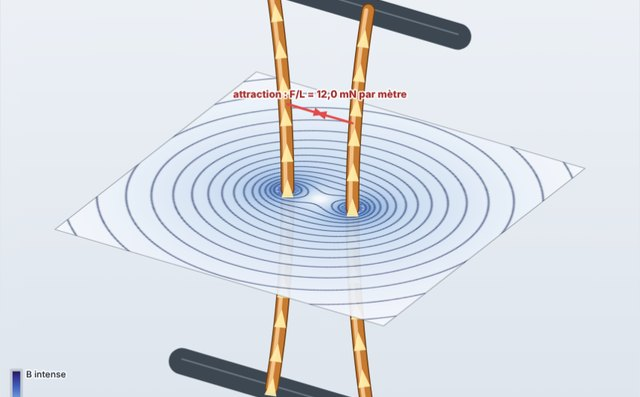
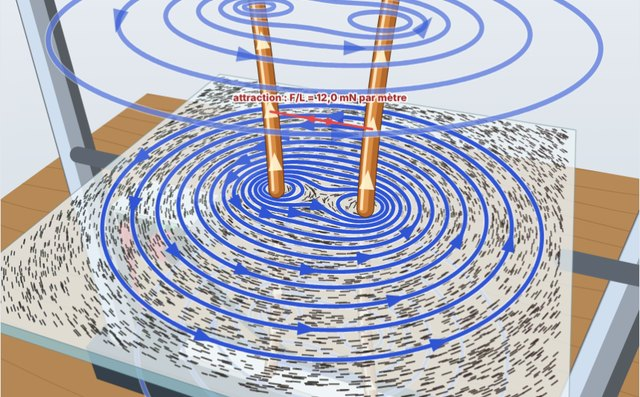
Deux fils parallèles : montage de labo réaliste en perspective, limaille de fer sur plaque de verre, vraies lignes de champ calculées en 3D
Claude-Session: https://claude.ai/code/session_01B7k5RL4vixYyXqa5m252m5

diff --git a/universite/physique/fils-paralleles-3d/index.html b/universite/physique/fils-paralleles-3d/index.html
@@ -154,7 +154,7 @@ new MutationObserver(ms=>ms.forEach(m=>{if(m.target.classList&&m.target.classLis
 <div class="sfa-titlecard"><div class="sfa-chips"><span class="sfa-chip">Physique · Magnétisme</span><span class="sfa-chip free">Gratuit</span></div><h1>Deux fils parallèles en 3D : champ et attraction</h1><p>Deux fils parcourus par un courant, vus en 3D. Le plan entre eux montre la densité du champ magnétique et ses lignes. Tendus, ils se courbent l’un vers l’autre ; libres, on les voit se rapprocher jusqu’à se toucher.</p></div>
 <section class="sfa-sim">
 
-<canvas id="cv" style="width:100%;height:70vh;min-height:560px;cursor:grab;touch-action:none" aria-label="Deux fils parallèles en 3D parcourus par un courant ; un plan horizontal montre la densité du champ magnétique et ses lignes ; les fils s'attirent ou se repoussent"></canvas>
+<canvas id="cv" style="width:100%;height:72vh;min-height:580px;cursor:grab;touch-action:none" aria-label="Montage de laboratoire : deux fils de cuivre verticaux tendus dans un statif traversent une plaque de verre couverte de limaille de fer ; les lignes de champ magnétique sont tracées en 3D ; les fils s'attirent ou se repoussent"></canvas>
 
 <div class="fml" id="fml"></div>
 
@@ -162,6 +162,7 @@ new MutationObserver(ms=>ms.forEach(m=>{if(m.target.classList&&m.target.classLis
   <span class="pill">Courants</span>
   <button class="btn on" id="dS">Même sens ↑↑ (attraction)</button>
   <button class="btn" id="dO">Sens opposés ↑↓ (répulsion)</button>
+  <button class="btn" id="off">Couper le courant</button>
 </div>
 <div class="row">
   <span class="pill" style="min-width:150px">I₁ &nbsp;fil 1</span>
@@ -186,162 +187,222 @@ new MutationObserver(ms=>ms.forEach(m=>{if(m.target.classList&&m.target.classLis
   <button class="btn" id="rst">↺ Replacer</button>
 </div>
 <div class="row">
-  <span class="pill">Affichage</span>
-  <button class="btn on" id="bDen">Densité de champ (couleur)</button>
-  <button class="btn on" id="bLin">Lignes de champ</button>
+  <span class="pill">Champ</span>
+  <button class="btn on" id="bLin">Lignes de champ en 3D</button>
+  <button class="btn on" id="bFil">Limaille de fer</button>
+  <button class="btn" id="bDen">Carte de densité (couleur)</button>
   <button class="btn on" id="bF">Forces</button>
   <button class="btn" id="lab">Masquer les écritures</button>
 </div>
 <div class="row">
   <span class="pill">Vue</span>
   <button class="btn on" id="v3">3D</button>
+  <button class="btn" id="vC">Près de la plaque</button>
   <button class="btn" id="vT">De dessus</button>
   <button class="btn" id="vF">De face</button>
 </div>
-<div class="row"><span class="hint">Astuce : glisse pour tourner autour des fils ; passe la souris sur le plan pour lire B en chaque point. Plus les lignes de champ sont serrées, plus le champ est intense.</span></div>
+<div class="row"><span class="hint">Astuce : glisse pour tourner autour du montage, molette pour zoomer ; passe la souris sur la plaque pour lire B. Les lignes de champ sont calculées en suivant B pas à pas : plus elles sont serrées, plus le champ est intense.</span></div>
 
 <div class="info" id="info"></div>
 
 <script>
 (function(){
 const cv=document.getElementById('cv'),ctx=cv.getContext('2d');
-const INK='#2c3440',RED='#E24B4A',RED_D='#a32d2d',OR_D='#9a5f0f',GREY='#8a939c',BLUE_D='#185fa5',PUR_D='#534AB7';
+const INK='#2c3440',RED='#E24B4A',RED_D='#a32d2d',OR_D='#9a5f0f',GREY='#8a939c',PUR_D='#534AB7',FL='#2f55d4';
 const FS='600 12px Mulish,system-ui,sans-serif',FB='800 13.5px Mulish,system-ui,sans-serif';
 const $=id=>document.getElementById(id),fr=(v,d)=>(Math.abs(v)<5e-12?0:v).toFixed(d).replace('.',',').replace(/^-/,'−');
 const MU=4e-7*Math.PI;
 let W=0,H=0,dpr=1,noLab=false;
-function size(){const b=cv.getBoundingClientRect();dpr=window.devicePixelRatio||1;const w=Math.round(b.width)||800,h=Math.round(b.height)||560;if(w!==W||h!==H||cv.width!==Math.round(w*dpr)){W=w;H=h;cv.width=Math.round(W*dpr);cv.height=Math.round(H*dpr);}ctx.setTransform(dpr,0,0,dpr,0,0);}
+function size(){const b=cv.getBoundingClientRect();dpr=window.devicePixelRatio||1;const w=Math.round(b.width)||800,h=Math.round(b.height)||580;if(w!==W||h!==H||cv.width!==Math.round(w*dpr)){W=w;H=h;cv.width=Math.round(W*dpr);cv.height=Math.round(H*dpr);}ctx.setTransform(dpr,0,0,dpr,0,0);}
 function tag(t,x,y,col,font,al){if(noLab)return;ctx.font=font||FS;ctx.textAlign=al||'center';ctx.textBaseline='middle';const w=ctx.measureText(t).width,A=al||'center';const lo=A==='left'?4:A==='right'?w+4:w/2+4,hi=A==='left'?W-w-4:A==='right'?W-4:W-w/2-4;x=Math.max(lo,Math.min(hi,x));y=Math.max(9,Math.min(H-9,y));
   ctx.lineWidth=3.5;ctx.strokeStyle='rgba(255,255,255,.92)';ctx.lineJoin='round';ctx.strokeText(t,x,y);ctx.fillStyle=col||INK;ctx.fillText(t,x,y);}
 function arrow(x1,y1,x2,y2,col,w){ctx.strokeStyle=col;ctx.fillStyle=col;ctx.lineWidth=w||2;ctx.lineCap='round';ctx.beginPath();ctx.moveTo(x1,y1);ctx.lineTo(x2,y2);ctx.stroke();const a=Math.atan2(y2-y1,x2-x1),h=8+(w||2)*1.6;ctx.beginPath();ctx.moveTo(x2+Math.cos(a)*2,y2+Math.sin(a)*2);ctx.lineTo(x2-h*Math.cos(a-0.45),y2-h*Math.sin(a-0.45));ctx.lineTo(x2-h*Math.cos(a+0.45),y2-h*Math.sin(a+0.45));ctx.closePath();ctx.fill();}
 
-// ---------- état ----------
-let I1=60,I2=60,same=true,dCm=6,mode='T',free=false,den=true,lin=true,showF=true;
-let yaw=-0.55,pitch=0.5,run=true,dirty=true,t=0;
+// ---------- état et physique ----------
+let I1=60,I2=60,same=true,on=true,dCm=6,mode='T',free=false,fil=true,den=false,lin=true,showF=true;
+let yaw=-0.62,pitch=0.42,zoom=1,t=0;
 let x1=-0.03,x2=0.03,v1=0,v2=0,contact=false,sag=0,sagV=0,probe=null;
-const LAM=0.007;           // masse linéique d'un fil de cuivre de 1 mm de diamètre (kg/m)
-const SLOW=20;             // ralenti
-const d0=()=>dCm/100,S=()=>Math.max(0.16,3.4*d0()),HW=()=>0.6*S();
-const s2=()=>same?1:-1;
-// force par unité de longueur sur le fil 2 (selon x) quand les fils sont en xa < xb
-function F2(xa,xb){const d=Math.max(1e-4,xb-xa);return -s2()*MU*I1*I2/(2*Math.PI*d);}   // négatif = vers le fil 1
-function Bvec(x,y,xa,xb){let bx=0,by=0;[[xa,I1],[xb,s2()*I2]].forEach(([xi,I])=>{const dx=x-xi,dy=y,r2=Math.max(dx*dx+dy*dy,4e-6),k=MU*I/(2*Math.PI*r2);bx+=-k*dy;by+=k*dx;});return[bx,by];}
+const LAM=0.007,SLOW=20;
+const d0=()=>dCm/100,S=()=>Math.max(0.2,3.4*d0()),HW=()=>0.62*S();
+const s2=()=>same?1:-1,Ie1=()=>on?I1:0,Ie2=()=>on?I2:0;
+function F2(xa,xb){const d=Math.max(1e-4,xb-xa);return -s2()*MU*Ie1()*Ie2()/(2*Math.PI*d);}
+function Bvec(x,y,xa,xb){let bx=0,by=0;[[xa,Ie1()],[xb,s2()*Ie2()]].forEach(([xi,I])=>{const dx=x-xi,dy=y,r2=Math.max(dx*dx+dy*dy,4e-6),k=MU*I/(2*Math.PI*r2);bx+=-k*dy;by+=k*dx;});return[bx,by];}
+// position des fils à la hauteur z (ils se courbent quand ils sont tendus)
+function wx(z){if(mode!=='T')return[x1,x2];const hw=HW(),b=sag*(1-(z/hw)*(z/hw));return[-d0()/2+b,d0()/2-b];}
 
-// ---------- projection 3D (orthographique, on tourne la caméra) ----------
-let P={};
-function cam(){const sc=Math.min(W*(W<640?0.86:0.62),H*0.74)/S(),cy=H*0.5;P={sc,cx:W*0.5,cy,cy0:Math.cos(yaw),sy0:Math.sin(yaw),cp:Math.cos(pitch),sp:Math.sin(pitch)};}
-function pr(x,y,z){const xr=x*P.cy0-y*P.sy0,yr=x*P.sy0+y*P.cy0;return[P.cx+P.sc*xr,P.cy-P.sc*(z*P.cp+yr*P.sp),yr*P.cp-z*P.sp];}
+// ---------- caméra en perspective ----------
+let C={};
+function cam(){const s=S(),Dc=2.35*s/zoom,f=Math.min(W*(W<640?1.25:0.95),H*1.05)*1.05;C={Dc,f,cx:W*0.5,cy:H*0.5,cyw:Math.cos(yaw),syw:Math.sin(yaw),cp:Math.cos(pitch),sp:Math.sin(pitch)};}
+function pr(x,y,z){const xr=x*C.cyw-y*C.syw,yr=x*C.syw+y*C.cyw,dep=C.Dc+yr*C.cp-z*C.sp,k=C.f/Math.max(0.05,dep);return[C.cx+xr*k,C.cy-(z*C.cp+yr*C.sp)*k,dep,k];}
+function unproj(X,Y){const a=X-C.cx,b=C.cy-Y,dd=C.f*C.sp-b*C.cp;if(Math.abs(dd)<1e-6)return null;const yr=b*C.Dc/dd,xr=a*(C.Dc+yr*C.cp)/C.f,x=xr*C.cyw+yr*C.syw,y=-xr*C.syw+yr*C.cyw,s=S();return Math.abs(x)<s/2&&Math.abs(y)<s/2?[x,y]:null;}
+function poly(pts,fill,stroke,lw){ctx.beginPath();pts.forEach((p,i)=>i?ctx.lineTo(p[0],p[1]):ctx.moveTo(p[0],p[1]));ctx.closePath();if(fill){ctx.fillStyle=fill;ctx.fill();}if(stroke){ctx.strokeStyle=stroke;ctx.lineWidth=lw||1;ctx.stroke();}}
+function shade(hex,k){const n=parseInt(hex.slice(1),16),r=n>>16,g=(n>>8)&255,b=n&255,f=v=>Math.max(0,Math.min(255,Math.round(v*k)));return`rgb(${f(r)},${f(g)},${f(b)})`;}
+function box(x0,x1_,y0,y1,z0,z1,col){const P=[[x0,y0,z0],[x1_,y0,z0],[x1_,y1,z0],[x0,y1,z0],[x0,y0,z1],[x1_,y0,z1],[x1_,y1,z1],[x0,y1,z1]].map(p=>pr(...p));
+  const F=[[[4,5,6,7],1.08],[[0,1,5,4],0.86],[[1,2,6,5],0.74],[[2,3,7,6],0.8],[[3,0,4,7],0.95],[[3,2,1,0],0.5]];
+  F.forEach(([ix,k])=>{const q=ix.map(i=>P[i]);let a=0;for(let i=0;i<4;i++){const p=q[i],n=q[(i+1)%4];a+=p[0]*n[1]-n[0]*p[1];}if(a<0)poly(q,shade(col,k),'rgba(0,0,0,.18)',1);});}
+function rod(x,y,z0,z1,r,col){const a=pr(x,y,z0),b=pr(x,y,z1),w=Math.max(2,r*2*(a[3]+b[3])/2),ang=Math.atan2(b[1]-a[1],b[0]-a[0])+Math.PI/2,ox=Math.cos(ang),oy=Math.sin(ang);
+  [[1,0.55],[0.72,1.0],[0.32,1.35]].forEach(([k,sh],i)=>{ctx.strokeStyle=shade(col,sh);ctx.lineWidth=w*k;ctx.lineCap='round';const o=i?-(1-k)*w*0.45:0;ctx.beginPath();ctx.moveTo(a[0]+ox*o,a[1]+oy*o);ctx.lineTo(b[0]+ox*o,b[1]+oy*o);ctx.stroke();});}
+function blob(x,y,z,rx,ry,al){const N=24,pts=[];for(let i=0;i<N;i++){const a=i/N*2*Math.PI;pts.push(pr(x+rx*Math.cos(a),y+ry*Math.sin(a),z));}poly(pts,`rgba(30,20,10,${al})`);}
 
-// ---------- la nappe : densité et lignes de champ ----------
-const N=300,off=document.createElement('canvas');off.width=N;off.height=N;const octx=off.getContext('2d'),img=octx.createImageData(N,N);
-let mapKey='';
+// ---------- vraies lignes de champ : on suit B pas à pas ----------
+// Chaque ligne est une courbe fermée symétrique par rapport à l'axe des fils : on part de l'axe (y = 0) là où B pointe vers +y,
+// on suit B jusqu'à revenir sur l'axe, puis on complète par symétrie. Les départs sont espacés pour que la densité des lignes suive B.
+const LCACHE={};
+function traceLevel(z){const [xa,xb]=wx(z),key=[z.toFixed(3),xa.toFixed(5),xb.toFixed(5),Ie1(),Ie2(),same,dCm].join('|');if(LCACHE[z]&&LCACHE[z].key===key)return LCACHE[z].lines;
+  const s=S(),half=s/2,lines=[];if(!on){LCACHE[z]={key,lines};return lines;}
+  const I_=[Ie1(),s2()*Ie2()],psi=x=>I_[0]*Math.log(Math.abs(x-xa)+1e-9)+I_[1]*Math.log(Math.abs(x-xb)+1e-9),dpsi=(I1+I2)/7,rmin=0.0055;
+  // départs : points de l'axe où psi traverse un multiple de dpsi
+  const seeds=[],N=1600;let xp=-half,pp=psi(xp);
+  for(let i=1;i<=N;i++){const x=-half+s*i/N,p=psi(x);if(Math.abs(x-xa)>rmin&&Math.abs(x-xb)>rmin&&Math.abs(xp-xa)>rmin&&Math.abs(xp-xb)>rmin){const k0=Math.floor(pp/dpsi),k1=Math.floor(p/dpsi);
+      if(k0!==k1){const lv=Math.max(k0,k1)*dpsi,xs=xp+(x-xp)*(lv-pp)/(p-pp);const [,by]=Bvec(xs,0,xa,xb);if(by>0)seeds.push(xs);}}xp=x;pp=p;}
+  const h=s/360;
+  seeds.forEach(xs=>{const pts=[[xs,0]];let x=xs,y=0;
+    for(let n=0;n<3000;n++){let [bx,by]=Bvec(x,y,xa,xb),B=Math.hypot(bx,by);if(B<1e-12)break;const mx=x+0.5*h*bx/B,my=y+0.5*h*by/B;[bx,by]=Bvec(mx,my,xa,xb);B=Math.hypot(bx,by);if(B<1e-12)break;
+      const nx=x+h*bx/B,ny=y+h*by/B;if(ny<0){const u=y/(y-ny);pts.push([x+(nx-x)*u,0]);break;}x=nx;y=ny;pts.push([x,y]);if(Math.abs(x)>half||y>half)break;}
+    const closed=pts.length>3&&pts[pts.length-1][1]===0;if(pts.length>3&&(closed||z===0)){const up=pts,down=pts.slice().reverse().map(([a,b])=>[a,-b]);const L=up.concat(down);L.closed=closed;lines.push(L);}});
+  LCACHE[z]={key,lines};return lines;}
+function zLevels(){const hw=HW();return[-0.62*hw,0,0.62*hw];}
+function drawLines(z){const lines=traceLevel(z),s=S(),onPlate=z===0;
+  lines.forEach((L,li)=>{if(!onPlate&&li%2)return;const P=L.map(([x,y])=>pr(x,y,z+0.0012));
+    // lignes hors plaque à peine teintées, ligne de la plaque plus marquée
+    const w=Math.max(1.3,0.0016*P[0][3]);ctx.lineJoin='round';ctx.lineCap='round';
+    ctx.globalAlpha=onPlate?1:0.6;ctx.strokeStyle='rgba(255,255,255,.75)';ctx.lineWidth=w+2.4;ctx.beginPath();P.forEach((p,i)=>i?ctx.lineTo(p[0],p[1]):ctx.moveTo(p[0],p[1]));ctx.stroke();
+    ctx.strokeStyle=FL;ctx.lineWidth=w;ctx.stroke();
+    // flèches dans le sens de B, régulièrement réparties le long de la ligne
+    let acc=0;const step=Math.max(onPlate?110:160,(onPlate?0.45:0.7)*s*P[0][3]);for(let i=1;i<P.length;i++){acc+=Math.hypot(P[i][0]-P[i-1][0],P[i][1]-P[i-1][1]);if(acc>step){acc=0;const a=Math.atan2(P[i][1]-P[i-1][1],P[i][0]-P[i-1][0]),hh=4+w*2;ctx.fillStyle=FL;ctx.beginPath();ctx.moveTo(P[i][0]+Math.cos(a)*hh,P[i][1]+Math.sin(a)*hh);ctx.lineTo(P[i][0]+Math.cos(a+2.5)*hh,P[i][1]+Math.sin(a+2.5)*hh);ctx.lineTo(P[i][0]+Math.cos(a-2.5)*hh,P[i][1]+Math.sin(a-2.5)*hh);ctx.closePath();ctx.fill();}}ctx.globalAlpha=1;});}
+
+// ---------- limaille de fer et carte de densité ----------
+const NG=6500;let grains=null,gKey='';
+function rnd(i){const x=Math.sin(i*127.1+311.7)*43758.5453;return x-Math.floor(x);}
+function buildGrains(){const s=S();if(grains&&grains.s===s)return;grains={s,x:new Float32Array(NG),y:new Float32Array(NG),a:new Float32Array(NG),ta:new Float32Array(NG),al:new Float32Array(NG),len:new Float32Array(NG)};
+  for(let i=0;i<NG;i++){grains.x[i]=(rnd(i)-0.5)*s*0.96;grains.y[i]=(rnd(i+9e3)-0.5)*s*0.96;grains.a[i]=rnd(i+2e4)*Math.PI;grains.len[i]=0.0011+0.0017*rnd(i+3e4);}gKey='';}
+function aimGrains(xa,xb){const key=[xa.toFixed(4),xb.toFixed(4),Ie1(),Ie2(),same].join('|');if(key===gKey)return;gKey=key;const Bref=MU*60/(2*Math.PI*0.06);
+  for(let i=0;i<NG;i++){const [bx,by]=Bvec(grains.x[i],grains.y[i],xa,xb),B=Math.hypot(bx,by),al=Math.min(1,Math.pow(B/(Bref*0.35),0.8));grains.al[i]=al;
+    const rand=(rnd(i+5e4)-0.5)*Math.PI*(1-al);grains.ta[i]=B>1e-9?Math.atan2(by,bx)+rand:grains.a[i];}}
+function stepGrains(dt){if(!grains)return;const k=Math.min(1,dt*5);for(let i=0;i<NG;i++){let d=grains.ta[i]-grains.a[i];d=((d+Math.PI/2)%Math.PI+Math.PI)%Math.PI-Math.PI/2;grains.a[i]+=d*k*(0.3+0.7*grains.al[i]);}}
+const NM=200,offm=document.createElement('canvas');offm.width=NM;offm.height=NM;const octx=offm.getContext('2d'),img=octx.createImageData(NM,NM);let mKey='';
 const CM=[[0,[246,248,252]],[0.3,[200,219,242]],[0.55,[120,164,222]],[0.75,[64,96,190]],[0.9,[52,48,140]],[1,[30,22,80]]];
 function cmap(v){for(let i=1;i<CM.length;i++)if(v<=CM[i][0]){const [a,ca]=CM[i-1],[b,cb]=CM[i],u=(v-a)/(b-a);return[ca[0]+(cb[0]-ca[0])*u,ca[1]+(cb[1]-ca[1])*u,ca[2]+(cb[2]-ca[2])*u];}return CM[CM.length-1][1];}
-function buildMap(xa,xb){const key=[xa.toFixed(5),xb.toFixed(5),I1,I2,same,den,lin,dCm].join('|');if(key===mapKey)return;mapKey=key;
-  const s=S(),px=N/s,d=img.data,Bn=MU*(I1+I2)/(2*Math.PI*s*0.5),LG=Math.log(60),dpsi=(I1+I2)/7,rw=0.0035;
-  for(let j=0;j<N;j++){const y=s/2-(j+0.5)/px;for(let i=0;i<N;i++){const x=-s/2+(i+0.5)/px;
-    const r1=Math.hypot(x-xa,y),r2=Math.hypot(x-xb,y),[bx,by]=Bvec(x,y,xa,xb),B=Math.hypot(bx,by);
-    let v=Math.max(0,Math.min(1,Math.log(B/Bn+1e-9)/LG+0.08));let c=den?cmap(v):[250,251,253];
-    if(lin&&r1>rw*1.6&&r2>rw*1.6){const psi=I1*Math.log(r1)+s2()*I2*Math.log(r2),g=B*2*Math.PI/MU,dd=Math.abs(psi/dpsi-Math.round(psi/dpsi))*dpsi/(g/px+1e-12);
-      if(dd<1.1){const a=(1.1-dd)/1.1*0.85,lc=den&&v>0.62?[255,255,255]:[24,40,90];c=[c[0]+(lc[0]-c[0])*a,c[1]+(lc[1]-c[1])*a,c[2]+(lc[2]-c[2])*a];}}
-    const p=(i+j*N)*4;d[p]=c[0];d[p+1]=c[1];d[p+2]=c[2];d[p+3]=255;}}
-  octx.putImageData(img,0,0);}
-function plane(xa,xb){const s=S();buildMap(xa,xb);
-  const o=pr(-s/2,s/2,0),ex=pr(s/2,s/2,0),ey=pr(-s/2,-s/2,0);
-  const a=(ex[0]-o[0])/N,b=(ex[1]-o[1])/N,c=(ey[0]-o[0])/N,d=(ey[1]-o[1])/N;
-  ctx.save();ctx.setTransform(a*dpr,b*dpr,c*dpr,d*dpr,o[0]*dpr,o[1]*dpr);ctx.globalAlpha=0.93;ctx.imageSmoothingEnabled=true;ctx.drawImage(off,0,0);ctx.restore();
-  // bord de la nappe
-  const k=[pr(-s/2,s/2,0),pr(s/2,s/2,0),pr(s/2,-s/2,0),pr(-s/2,-s/2,0)];ctx.strokeStyle='rgba(44,52,64,.35)';ctx.lineWidth=1.2;ctx.beginPath();k.forEach((q,i)=>i?ctx.lineTo(q[0],q[1]):ctx.moveTo(q[0],q[1]));ctx.closePath();ctx.stroke();}
+function buildMap(xa,xb){const key=[xa.toFixed(5),xb.toFixed(5),Ie1(),Ie2(),same,dCm].join('|');if(key===mKey)return;mKey=key;
+  const s=S(),px=NM/s,d=img.data,Bn=MU*(I1+I2)/(2*Math.PI*s*0.5),LG=Math.log(60);
+  for(let j=0;j<NM;j++){const y=s/2-(j+0.5)/px;for(let i=0;i<NM;i++){const x=-s/2+(i+0.5)/px,[bx,by]=Bvec(x,y,xa,xb),B=Math.hypot(bx,by),v=Math.max(0,Math.min(1,Math.log(B/Bn+1e-9)/LG+0.08)),c=cmap(v),p=(i+j*NM)*4;
+    d[p]=c[0];d[p+1]=c[1];d[p+2]=c[2];d[p+3]=on?205:0;}}octx.putImageData(img,0,0);}
+function texPlate(){const s=S(),T=14,ts=NM/T;
+  for(let j=0;j<T;j++)for(let i=0;i<T;i++){const x0=-s/2+i*s/T,y0=s/2-j*s/T,p00=pr(x0,y0,0.0004),p10=pr(x0+s/T,y0,0.0004),p01=pr(x0,y0-s/T,0.0004);
+    const a=(p10[0]-p00[0])/ts,b=(p10[1]-p00[1])/ts,c=(p01[0]-p00[0])/ts,d=(p01[1]-p00[1])/ts;
+    ctx.save();ctx.setTransform(a*dpr,b*dpr,c*dpr,d*dpr,p00[0]*dpr,p00[1]*dpr);ctx.drawImage(offm,i*ts,j*ts,ts,ts,-0.3,-0.3,ts+0.6,ts+0.6);ctx.restore();}}
+function plate(){const s=S(),th=0.006,[xa,xb]=wx(0);
+  const top=[pr(-s/2,s/2,0),pr(s/2,s/2,0),pr(s/2,-s/2,0),pr(-s/2,-s/2,0)],bot=[pr(-s/2,s/2,-th),pr(s/2,s/2,-th),pr(s/2,-s/2,-th),pr(-s/2,-s/2,-th)];
+  for(let i=0;i<4;i++){const q=[top[i],top[(i+1)%4],bot[(i+1)%4],bot[i]];let a=0;for(let k=0;k<4;k++){const p=q[k],n=q[(k+1)%4];a+=p[0]*n[1]-n[0]*p[1];}if(a<0)poly(q,'rgba(150,190,200,.85)','rgba(80,120,130,.5)',1);}
+  const above=pitch>=0;poly(top,above?'rgba(236,243,246,.78)':'rgba(220,232,238,.6)','rgba(110,140,150,.55)',1.2);
+  if(den){buildMap(xa,xb);texPlate();}
+  if(fil&&above){aimGrains(xa,xb);ctx.lineCap='round';const g=grains;
+    for(let i=0;i<NG;i++){const x=g.x[i],y=g.y[i],L=g.len[i]*(0.7+0.6*g.al[i]),c=Math.cos(g.a[i])*L/2,sn=Math.sin(g.a[i])*L/2;
+      if(Math.hypot(x-xa,y)<0.0045||Math.hypot(x-xb,y)<0.0045)continue;const p=pr(x-c,y-sn,0.0006),q=pr(x+c,y+sn,0.0006);
+      ctx.strokeStyle=`rgba(${40+20*rnd(i)|0},${38+16*rnd(i+1)|0},${36+14*rnd(i+2)|0},${0.35+0.45*g.al[i]})`;ctx.lineWidth=Math.max(0.6,0.00045*p[3]);ctx.beginPath();ctx.moveTo(p[0],p[1]);ctx.lineTo(q[0],q[1]);ctx.stroke();}}
+  if(lin)drawLines(0);
+  const r1=pr(-s*0.45,s*0.42,0.0008),r2=pr(-s*0.05,s*0.42,0.0008),r3=pr(-s*0.2,-s*0.1,0.0008),r4=pr(-s*0.48,-s*0.1,0.0008);poly([r1,r2,r3,r4],'rgba(255,255,255,.10)');}
 
-// ---------- les fils ----------
-function wirePts(x0,dir,z1,z2){const hw=HW(),pts=[];for(let i=0;i<=40;i++){const z=z1+(z2-z1)*i/40,b=mode==='T'?dir*sag*(1-(z/hw)*(z/hw)):0;pts.push(pr(x0+b,0,z));}return pts;}
-function drawWire(pts,I,sg){const wpx=Math.max(5,P.sc*0.006);
-  const L=(w,col)=>{ctx.strokeStyle=col;ctx.lineWidth=w;ctx.lineCap='round';ctx.lineJoin='round';ctx.beginPath();pts.forEach((q,i)=>i?ctx.lineTo(q[0],q[1]):ctx.moveTo(q[0],q[1]));ctx.stroke();};
-  L(wpx+3,'#6b3d14');L(wpx,'#c77b30');ctx.save();ctx.translate(-wpx*0.18,0);L(wpx*0.35,'#f2c38b');ctx.restore();
-  // le courant : chevrons qui avancent dans le sens de I
-  const n=pts.length-1,sp=0.12+I/100*0.5,ph=((t*sp*sg)%1+1)%1;ctx.fillStyle='rgba(255,236,170,.95)';
-  for(let k=0;k<6;k++){const u=((k/6+ph)%1),i=Math.floor(u*n),q=pts[i],q2=pts[Math.min(n,i+1)],a=Math.atan2(q2[1]-q[1],q2[0]-q[0])+(sg>0?0:Math.PI),h=wpx*0.9;
-    ctx.beginPath();ctx.moveTo(q[0]+Math.cos(a)*h,q[1]+Math.sin(a)*h);ctx.lineTo(q[0]+Math.cos(a+2.5)*h,q[1]+Math.sin(a+2.5)*h);ctx.lineTo(q[0]+Math.cos(a-2.5)*h,q[1]+Math.sin(a-2.5)*h);ctx.closePath();ctx.fill();}}
-function supports(){const s=S(),hw=HW();[hw,-hw].forEach(z=>{const a=pr(-s*0.42,0,z),b=pr(s*0.42,0,z);ctx.strokeStyle='#3d4752';ctx.lineWidth=Math.max(8,P.sc*0.014);ctx.lineCap='round';ctx.beginPath();ctx.moveTo(a[0],a[1]);ctx.lineTo(b[0],b[1]);ctx.stroke();ctx.strokeStyle='#6b7783';ctx.lineWidth=2;ctx.beginPath();ctx.moveTo(a[0],a[1]-3);ctx.lineTo(b[0],b[1]-3);ctx.stroke();});}
+// ---------- les fils de cuivre ----------
+function wirePts(which,z1,z2){const pts=[];for(let i=0;i<=36;i++){const z=z1+(z2-z1)*i/36;pts.push(pr(wx(z)[which],0,z));}return pts;}
+function drawWire(pts,I,sg){const k=(pts[0][3]+pts[pts.length-1][3])/2,w=Math.max(4,0.0055*k);
+  const L=(lw,col,off)=>{ctx.strokeStyle=col;ctx.lineWidth=lw;ctx.lineCap='round';ctx.lineJoin='round';ctx.beginPath();pts.forEach((q,i)=>i?ctx.lineTo(q[0]+off,q[1]):ctx.moveTo(q[0]+off,q[1]));ctx.stroke();};
+  L(w+2,'#5a2f0e',0);L(w,'#b4682a',0);L(w*0.55,'#d98d45',-w*0.12);L(w*0.18,'#ffe1b8',-w*0.24);
+  if(!on)return;const n=pts.length-1,sp=0.1+I/100*0.45,ph=((t*sp*sg)%1+1)%1;ctx.fillStyle='rgba(255,246,210,.9)';
+  for(let j=0;j<5;j++){const u=((j/5+ph)%1),i=Math.floor(u*n),q=pts[i],q2=pts[Math.min(n,i+1)],a=Math.atan2(q2[1]-q[1],q2[0]-q[0])+(sg>0?0:Math.PI),h=w*0.7;
+    ctx.beginPath();ctx.moveTo(q[0]+Math.cos(a)*h,q[1]+Math.sin(a)*h);ctx.lineTo(q[0]+Math.cos(a+2.4)*h,q[1]+Math.sin(a+2.4)*h);ctx.lineTo(q[0]+Math.cos(a-2.4)*h,q[1]+Math.sin(a-2.4)*h);ctx.closePath();ctx.fill();}}
+
+// ---------- le décor ----------
+function table(){const s=S(),zt=-HW()-0.035,E=1.7*s,q=[pr(-E,E,zt),pr(E,E,zt),pr(E,-E,zt),pr(-E,-E,zt)];
+  const g=ctx.createLinearGradient(0,Math.min(q[0][1],q[1][1]),0,Math.max(q[2][1],q[3][1]));g.addColorStop(0,'#b88a57');g.addColorStop(1,'#8e6136');poly(q,g);
+  ctx.save();ctx.beginPath();q.forEach((p,i)=>i?ctx.lineTo(p[0],p[1]):ctx.moveTo(p[0],p[1]));ctx.closePath();ctx.clip();ctx.strokeStyle='rgba(70,40,15,.18)';ctx.lineWidth=1.2;
+  for(let k=-12;k<=12;k++){const y=k*E/12;ctx.beginPath();for(let i=0;i<=20;i++){const x=-E+2*E*i/20,p=pr(x,y+0.004*Math.sin(i*0.9+k),zt);i?ctx.lineTo(p[0],p[1]):ctx.moveTo(p[0],p[1]);}ctx.stroke();}ctx.restore();}
+function supply(){const s=S(),zt=-HW()-0.035,x0=-1.05*s,y0=0.5*s,w=0.36*s,dd=0.22*s,h=0.16*s;blob(x0+w/2,y0+dd/2,zt+0.0005,w*0.62,dd*0.62,0.18);
+  box(x0,x0+w,y0,y0+dd,zt,zt+h,'#d7dde3');
+  const sc=[pr(x0+0.08*w,y0-0.0005,zt+0.55*h),pr(x0+0.92*w,y0-0.0005,zt+0.55*h),pr(x0+0.92*w,y0-0.0005,zt+0.92*h),pr(x0+0.08*w,y0-0.0005,zt+0.92*h)];poly(sc,'#1b2a1f');
+  const c=pr(x0+0.5*w,y0-0.001,zt+0.735*h),fs=Math.max(8,Math.min(18,Math.abs(sc[1][0]-sc[0][0])/9));ctx.save();ctx.fillStyle='#7dff9b';ctx.font=`800 ${fs}px ui-monospace,Menlo,monospace`;ctx.textAlign='center';ctx.textBaseline='middle';ctx.shadowColor='#3dff6d';ctx.shadowBlur=6;
+  ctx.fillText(on?`${I1} A · ${I2} A`:'0 A · 0 A',c[0],c[1]);ctx.restore();
+  return[[0.18,'#d33'],[0.36,'#222'],[0.64,'#d33'],[0.82,'#222']].map(([u,col])=>{const p=pr(x0+u*w,y0-0.002,zt+0.25*h);ctx.fillStyle=col;ctx.beginPath();ctx.arc(p[0],p[1],Math.max(3,0.012*p[3]),0,7);ctx.fill();return[x0+u*w,y0,zt+0.25*h];});}
+function cable(a,b,col){const pts=[];for(let i=0;i<=30;i++){const u=i/30,x=a[0]+(b[0]-a[0])*u,y=a[1]+(b[1]-a[1])*u-0.075*S()*Math.sin(Math.PI*u),z=a[2]+(b[2]-a[2])*u-0.06*S()*Math.sin(Math.PI*u);pts.push(pr(x,y,Math.max(z,-HW()-0.033)));}
+  ctx.strokeStyle=col;ctx.lineWidth=Math.max(2.5,0.006*pts[15][3]);ctx.lineCap='round';ctx.beginPath();pts.forEach((p,i)=>i?ctx.lineTo(p[0],p[1]):ctx.moveTo(p[0],p[1]));ctx.stroke();ctx.strokeStyle='rgba(255,255,255,.25)';ctx.lineWidth=1;ctx.stroke();}
+function stand(part){const s=S(),hw=HW(),zt=-HW()-0.035,px=0.62*s;
+  if(part==='back'){blob(0,0,zt+0.0005,0.62*s,0.12*s,0.2);
+    box(-0.7*s,0.7*s,-0.09*s,0.09*s,zt,zt+0.03,'#3e4a56');
+    box(-0.42*s,0.42*s,-0.035*s,0.035*s,zt+0.03,-hw,'#eef0ea');
+    rod(-px,0,zt+0.03,hw+0.03,0.008,'#9aa5b1');rod(px,0,zt+0.03,hw+0.03,0.008,'#9aa5b1');
+    [-1,1].forEach(sg=>{const a=pr(sg*px,0,-0.004),b=pr(sg*s/2*0.98,0,-0.004);ctx.strokeStyle='#5d6670';ctx.lineWidth=Math.max(3,0.008*a[3]);ctx.lineCap='round';ctx.beginPath();ctx.moveTo(a[0],a[1]);ctx.lineTo(b[0],b[1]);ctx.stroke();});}
+  else box(-px-0.012,px+0.012,-0.012*s,0.012*s,hw,hw+0.022,'#eef0ea');}
 
 function draw(){size();cam();ctx.clearRect(0,0,W,H);
-  let gr=ctx.createLinearGradient(0,0,0,H);gr.addColorStop(0,'#eef2f7');gr.addColorStop(1,'#dde4ec');ctx.fillStyle=gr;ctx.fillRect(0,0,W,H);
-  const hw=HW(),xa=mode==='T'?-d0()/2+sag:x1,xb=mode==='T'?d0()/2-sag:x2;   // positions à mi-hauteur
-  const ax=mode==='T'?-d0()/2:x1,bx=mode==='T'?d0()/2:x2,dir=1;
-  const sg2=s2();
-  if(mode==='T'||!free)supports();
-  // ordre de dessin : moitiés basses, nappe, moitiés hautes (vue d'en haut) ; inverse si on regarde d'en dessous
-  const below=pitch>=0;
-  const lo1=wirePts(ax,dir,-hw,0),lo2=wirePts(bx,-dir,-hw,0),hi1=wirePts(ax,dir,0,hw),hi2=wirePts(bx,-dir,0,hw);
-  if(below){drawWire(lo1,I1,1);drawWire(lo2,I2,sg2);}else{drawWire(hi1,I1,1);drawWire(hi2,I2,sg2);}
-  plane(xa,xb);
-  if(below){drawWire(hi1,I1,1);drawWire(hi2,I2,sg2);}else{drawWire(lo1,I1,1);drawWire(lo2,I2,sg2);}
-  // forces de Laplace à mi-hauteur
-  const F=mode==='T'?F2(-d0()/2,d0()/2):F2(xa,xb),Fm=Math.abs(F);
-  if(showF&&!contact){const len=Math.min(P.sc*S()*0.22,26+38*Math.log10(1+Fm*400));
-    [[xa,1],[xb,-1]].forEach(([x,side])=>{const p=pr(x,0,hw*0.42),dx=(F<0?1:-1)*side,q=pr(x+dx*len/P.sc,0,hw*0.42);arrow(p[0],p[1],q[0],q[1],RED,3.2);});
-    const m=pr((xa+xb)/2,0,hw*0.42);tag((F<0?'attraction':'répulsion')+' : F/L = '+fmtF(Fm),m[0],m[1]-26,RED_D,FB);}
-  // étiquettes
-  const top=pitch>1.2,t1=pr(ax,0,hw*1.08),t2=pr(bx,0,hw*1.08);tag('fil 1 · I₁ = '+I1+' A '+(top?'⊙':'↑'),t1[0]-(top?10:0),t1[1]+(top?30:-12),OR_D,FB,top?'right':'center');tag('fil 2 · I₂ = '+I2+' A '+(top?(same?'⊙':'⊗'):(same?'↑':'↓')),t2[0]+(top?10:0),t2[1]+(top?30:-12),OR_D,FB,top?'left':'center');
-  if(mode==='T'&&sag>1e-4){tag('courbure exagérée pour être visible',W-12,H-16,GREY,FS,'right');}
+  let gr=ctx.createLinearGradient(0,0,0,H);gr.addColorStop(0,'#e9eef3');gr.addColorStop(1,'#cfd8e0');ctx.fillStyle=gr;ctx.fillRect(0,0,W,H);
+  const hw=HW(),sg2=s2(),[z1,,z3]=zLevels(),above=pitch>=0;
+  table();const tm=supply();cable(tm[0],[-0.42*S(),-0.035*S(),-hw+0.004],'#c62828');cable(tm[3],[0.42*S(),-0.035*S(),-hw+0.004],'#263238');
+  stand('back');
+  const lo1=wirePts(0,-hw,0),lo2=wirePts(1,-hw,0),hi1=wirePts(0,0,hw),hi2=wirePts(1,0,hw);
+  // ordre : ce qui est sous la plaque, la plaque, ce qui est au-dessus (inversé si on regarde par en dessous)
+  const under=()=>{if(lin)drawLines(z1);drawWire(lo1,I1,1);drawWire(lo2,I2,sg2);},over=()=>{drawWire(hi1,I1,1);drawWire(hi2,I2,sg2);if(lin)drawLines(z3);};
+  if(above){under();plate();over();}else{over();plate();under();}
+  ctx.globalAlpha=pitch>1?Math.max(0.15,1-(pitch-1)*1.7):1;stand('front');ctx.globalAlpha=1;   // vue de dessus : la traverse devient transparente
+  const [xa,xb]=wx(0),F=mode==='T'?F2(-d0()/2,d0()/2):F2(xa,xb),Fm=Math.abs(F);
+  if(showF&&on&&!contact){[0,1].forEach(side=>{const z=hw*0.3,x=wx(z)[side],p=pr(x,0,z),len=Math.min(0.28*S(),0.012+0.02*Math.log10(1+Fm*400)),dir=(F<0?1:-1)*(side?-1:1),q=pr(x+dir*len,0,z);arrow(p[0],p[1],q[0],q[1],RED,3.4);});
+    const m=pr(0,0,hw*0.3);tag((F<0?'attraction':'répulsion')+' : F/L = '+fmtF(Fm),m[0],m[1]-30,RED_D,FB);}
+  const tp=pitch>1.2,t1=pr(wx(hw)[0],0,hw*1.12),t2=pr(wx(hw)[1],0,hw*1.12);
+  tag('fil 1 · '+(on?I1:0)+' A',t1[0]-(tp?10:6),t1[1]+(tp?30:-16),OR_D,FB,'right');tag('fil 2 · '+(on?I2:0)+' A '+(on?(same?'(même sens)':'(sens opposé)'):''),t2[0]+(tp?10:6),t2[1]+(tp?30:-16),OR_D,FB,'left');
+  if(above&&(fil||lin)){const lp=pr(S()*0.5,-S()*0.5,0);tag(fil?'limaille de fer sur une plaque de verre':'plaque de verre',lp[0],lp[1]+18,INK,FS,'right');}
+  if(lin&&on&&!noLab){ctx.strokeStyle=FL;ctx.lineWidth=2;ctx.beginPath();ctx.moveTo(14,H-22);ctx.lineTo(40,H-22);ctx.stroke();tag('ligne de champ B (calculée)',46,H-22,FL,FS,'left');}
+  if(mode==='T'&&sag!==0&&on)tag('courbure des fils exagérée pour être visible',W-12,H-16,GREY,FS,'right');
   if(mode==='L')tag('ralenti ×'+SLOW,W-12,H-16,GREY,FS,'right');
-  if(contact)tag(same?'Les fils se touchent !':'Les fils se sont écartés',W/2,H*0.14,RED_D,FB);
-  // légende de la couleur
-  if(den&&!noLab){const lx=14,ly=H-120;const g2=ctx.createLinearGradient(0,ly+90,0,ly);CM.forEach(([u,c])=>g2.addColorStop(u,`rgb(${c[0]|0},${c[1]|0},${c[2]|0})`));ctx.fillStyle=g2;ctx.fillRect(lx,ly,14,90);ctx.strokeStyle='#c3c9d0';ctx.strokeRect(lx,ly,14,90);
-    tag('B intense',lx+20,ly+6,INK,FS,'left');tag('B faible',lx+20,ly+84,INK,FS,'left');}
-  // sonde
-  if(probe){const [bx_,by_]=Bvec(probe[0],probe[1],xa,xb),B=Math.hypot(bx_,by_),p=pr(probe[0],probe[1],0),sc=Math.min(60,10+16*Math.log10(1+B*1e5)),u=[bx_/B,by_/B],q=pr(probe[0]+u[0]*sc/P.sc,probe[1]+u[1]*sc/P.sc,0);
-    ctx.fillStyle=PUR_D;ctx.beginPath();ctx.arc(p[0],p[1],4.5,0,7);ctx.fill();arrow(p[0],p[1],q[0],q[1],PUR_D,2.4);tag('B = '+fmtB(B),p[0]+12,p[1]-16,PUR_D,FB,'left');}
-  dirty=false;}
+  if(contact)tag(same?'Les fils se touchent !':'Les fils se sont écartés',W/2,H*0.08,RED_D,FB);
+  if(!on)tag('Courant coupé : pas de champ, la limaille reste en désordre',W/2,H*0.08,INK,FB);
+  if(probe&&on){const [bx_,by_]=Bvec(probe[0],probe[1],xa,xb),B=Math.hypot(bx_,by_);if(B>0){const p=pr(probe[0],probe[1],0.001),L=Math.min(0.05,0.008+0.012*Math.log10(1+B*1e5)),q=pr(probe[0]+bx_/B*L,probe[1]+by_/B*L,0.001);
+    ctx.fillStyle=PUR_D;ctx.beginPath();ctx.arc(p[0],p[1],4.5,0,7);ctx.fill();arrow(p[0],p[1],q[0],q[1],PUR_D,2.6);tag('B = '+fmtB(B),p[0]+12,p[1]-18,PUR_D,FB,'left');}}}
 function fmtF(f){return f>=0.001?fr(f*1000,1)+' mN par mètre':fr(f*1e6,1)+' µN par mètre';}
 function fmtB(b){return b>=1e-3?fr(b*1000,2)+' mT':fr(b*1e6,1)+' µT';}
 
-// ---------- texte ----------
-function upd(){const d=mode==='T'?d0():Math.max(1e-4,x2-x1),B1=MU*I1/(2*Math.PI*d),F=MU*I1*I2/(2*Math.PI*d);
+// ---------- texte et commandes ----------
+function upd(){const d=mode==='T'?d0():Math.max(1e-4,x2-x1),B1=MU*Ie1()/(2*Math.PI*d),F=MU*Ie1()*Ie2()/(2*Math.PI*d);
   $('vI1').textContent=I1+' A';$('vI2').textContent=I2+' A';$('vD').textContent=fr(dCm,1)+' cm';
-  $('fml').innerHTML='Chaque fil crée autour de lui un champ <b>B = μ₀·I/(2πr)</b> dont les lignes sont des cercles (règle de la main droite). Le fil 2 baigne dans le champ du fil 1 et subit la force de Laplace <b>F = I₂·L·B₁</b>, d’où <b style="color:#a32d2d">F/L = μ₀·I₁·I₂/(2π·d)</b>, et le fil 1 subit la force opposée (3e loi de Newton). <b>Même sens : attraction. Sens opposés : répulsion.</b>';
-  $('info').innerHTML='d = <b>'+fr(d*100,2)+' cm</b> · champ du fil 1 à l’endroit du fil 2 : B₁ = μ₀I₁/(2πd) = <b>'+fmtB(B1)+'</b> · force sur 1 m de fil : <b style="color:#a32d2d">'+fr(F*1000,3)+' mN</b> ('+(same?'attraction':'répulsion')+').'+
-   ' Entre les fils, les champs '+(same?'<b>s’opposent</b> : la couleur pâlit et les lignes s’écartent (champ faible au milieu, nul au centre si I₁ = I₂).':'<b>s’ajoutent</b> : les lignes se serrent entre les fils (champ fort).')+
-   (mode==='L'?' Fils libres de 7 g/m (cuivre de 1 mm), vitesse relative : '+fr(Math.abs(v2-v1)*100,1)+' cm/s.':'')+
-   ' Pour I₁ = I₂ = 1 A et d = 1 m : F/L = 2·10⁻⁷ N/m (ancienne définition de l’ampère).';}
-function seg(ids,on){ids.forEach(i=>$(i).classList.toggle('on',i===on));}
-function reset(){x1=-d0()/2;x2=d0()/2;v1=v2=0;free=false;contact=false;sag=0;sagV=0;$('go').textContent='▶ Lâcher les fils';mapKey='';dirty=true;upd();}
+  $('fml').innerHTML='Chaque fil crée autour de lui un champ <b>B = μ₀·I/(2πr)</b> dont les lignes sont des cercles (règle de la main droite). Avec deux fils, les champs s’additionnent : les lignes de champ (en bleu) se déforment, et la limaille de fer s’aligne sur elles. Le fil 2 baigne dans le champ du fil 1 et subit la force de Laplace <b>F = I₂·L·B₁</b>, d’où <b style="color:#a32d2d">F/L = μ₀·I₁·I₂/(2π·d)</b> ; le fil 1 subit la force opposée. <b>Même sens : attraction. Sens opposés : répulsion.</b>';
+  $('info').innerHTML=!on?'Courant coupé : pas de champ, pas de force.':'d = <b>'+fr(d*100,2)+' cm</b> · champ du fil 1 à l’endroit du fil 2 : B₁ = μ₀I₁/(2πd) = <b>'+fmtB(B1)+'</b> (le champ terrestre vaut environ 50 µT) · force sur 1 m de fil : <b style="color:#a32d2d">'+fr(F*1000,3)+' mN</b> ('+(same?'attraction':'répulsion')+').'+
+   (same?' Les lignes proches de chaque fil sont des cercles ; plus loin, elles entourent les <b>deux</b> fils. Au milieu, les champs s’opposent : '+(I1===I2?'B y est nul (point neutre), ':'B y est faible, ')+'la limaille reste en désordre.':' Entre les fils, les champs <b>s’ajoutent</b> : les lignes s’y serrent et la limaille s’aligne fortement ; aucune ligne n’entoure les deux fils.')+
+   (mode==='L'?' Fils libres de 7 g/m (cuivre de 1 mm), vitesse relative : '+fr(Math.abs(v2-v1)*100,1)+' cm/s.':'');}
+function seg(ids,o){ids.forEach(i=>$(i).classList.toggle('on',i===o));}
+function reset(){x1=-d0()/2;x2=d0()/2;v1=v2=0;free=false;contact=false;sagV=0;$('go').textContent='▶ Lâcher les fils';mKey='';gKey='';buildGrains();upd();}
 $('dS').onclick=()=>{same=true;seg(['dS','dO'],'dS');reset();};$('dO').onclick=()=>{same=false;seg(['dS','dO'],'dO');reset();};
-$('sI1').oninput=e=>{I1=+e.target.value;if(!free)reset();upd();dirty=true;};$('sI2').oninput=e=>{I2=+e.target.value;if(!free)reset();upd();dirty=true;};
-$('sD').oninput=e=>{dCm=+e.target.value;reset();};
+$('off').onclick=()=>{on=!on;$('off').classList.toggle('on',!on);$('off').textContent=on?'Couper le courant':'Rétablir le courant';if(!on){free=false;$('go').textContent='▶ Lâcher les fils';}gKey='';mKey='';
+  if(!on&&grains)for(let i=0;i<NG;i++)grains.ta[i]=grains.a[i]+(rnd(i+7e4)-0.5)*0.6;upd();};
+$('sI1').oninput=e=>{I1=+e.target.value;if(!free)reset();upd();};$('sI2').oninput=e=>{I2=+e.target.value;if(!free)reset();upd();};
+$('sD').oninput=e=>{dCm=+e.target.value;grains=null;reset();};
 $('mT').onclick=()=>{mode='T';seg(['mT','mL'],'mT');$('go').style.display='none';reset();};
-$('mL').onclick=()=>{mode='L';seg(['mT','mL'],'mL');$('go').style.display='';reset();};
-$('go').onclick=()=>{if(mode!=='L'){$('mL').click();}if(contact)reset();free=!free;$('go').textContent=free?'⏸ Arrêter':'▶ Lâcher les fils';};
+$('mL').onclick=()=>{mode='L';seg(['mT','mL'],'mL');$('go').style.display='';sag=0;reset();};
+$('go').onclick=()=>{if(mode!=='L')$('mL').click();if(contact)reset();if(!on)$('off').click();free=!free;$('go').textContent=free?'⏸ Arrêter':'▶ Lâcher les fils';};
 $('rst').onclick=reset;
-$('bDen').onclick=()=>{den=!den;$('bDen').classList.toggle('on',den);mapKey='';dirty=true;};
-$('bLin').onclick=()=>{lin=!lin;$('bLin').classList.toggle('on',lin);mapKey='';dirty=true;};
-$('bF').onclick=()=>{showF=!showF;$('bF').classList.toggle('on',showF);dirty=true;};
-$('lab').onclick=()=>{noLab=!noLab;$('lab').classList.toggle('on',noLab);dirty=true;};
-let viewT=null;function view(y,p,id){viewT=[y,p];seg(['v3','vT','vF'],id);}
-$('v3').onclick=()=>view(-0.55,0.5,'v3');$('vT').onclick=()=>view(0,Math.PI/2-0.001,'vT');$('vF').onclick=()=>view(0,0.02,'vF');
-// souris : orbite + sonde
+$('bLin').onclick=()=>{lin=!lin;$('bLin').classList.toggle('on',lin);};
+$('bFil').onclick=()=>{fil=!fil;$('bFil').classList.toggle('on',fil);};
+$('bDen').onclick=()=>{den=!den;$('bDen').classList.toggle('on',den);mKey='';};
+$('bF').onclick=()=>{showF=!showF;$('bF').classList.toggle('on',showF);};
+$('lab').onclick=()=>{noLab=!noLab;$('lab').classList.toggle('on',noLab);};
+let viewT=null;function view(y,p,z,id){viewT=[y,p,z];seg(['v3','vC','vT','vF'],id);}
+$('v3').onclick=()=>view(-0.62,0.42,1,'v3');$('vC').onclick=()=>view(-0.35,0.62,1.9,'vC');$('vT').onclick=()=>view(0,1.5,1.5,'vT');$('vF').onclick=()=>view(0,0.03,1,'vF');
 let drag=null;function pos(e){const b=cv.getBoundingClientRect();return[e.clientX-b.left,e.clientY-b.top];}
-function unproj(X,Y){ // point de la nappe (z = 0) sous le curseur
-  const s=S(),o=pr(0,0,0),ex=pr(1,0,0),ey=pr(0,1,0),a=ex[0]-o[0],b=ex[1]-o[1],c=ey[0]-o[0],d=ey[1]-o[1],det=a*d-b*c;if(Math.abs(det)<1e-6)return null;
-  const u=X-o[0],v=Y-o[1],x=(u*d-v*c)/det,y=(a*v-b*u)/det;return Math.abs(x)<s/2&&Math.abs(y)<s/2?[x,y]:null;}
-cv.addEventListener('pointerdown',e=>{drag=pos(e);cv.setPointerCapture(e.pointerId);cv.style.cursor='grabbing';viewT=null;seg(['v3','vT','vF'],'');});
-cv.addEventListener('pointermove',e=>{const [x,y]=pos(e);if(drag){yaw+=(x-drag[0])*0.008;pitch=Math.max(-1.2,Math.min(Math.PI/2-0.001,pitch+(y-drag[1])*0.008));drag=[x,y];probe=null;}else probe=unproj(x,y);dirty=true;});
-cv.addEventListener('pointerup',()=>{drag=null;cv.style.cursor='grab';});cv.addEventListener('pointerleave',()=>{probe=null;dirty=true;});
-// boucle
+cv.addEventListener('pointerdown',e=>{drag=pos(e);cv.setPointerCapture(e.pointerId);cv.style.cursor='grabbing';viewT=null;seg(['v3','vC','vT','vF'],'');});
+cv.addEventListener('pointermove',e=>{const [x,y]=pos(e);if(drag){yaw+=(x-drag[0])*0.008;pitch=Math.max(-0.9,Math.min(1.5,pitch+(y-drag[1])*0.008));drag=[x,y];probe=null;}else probe=unproj(x,y);});
+cv.addEventListener('pointerup',()=>{drag=null;cv.style.cursor='grab';});cv.addEventListener('pointerleave',()=>{probe=null;});
+cv.addEventListener('wheel',e=>{e.preventDefault();zoom=Math.max(0.6,Math.min(2.6,zoom*Math.exp(-e.deltaY*0.001)));},{passive:false});
 let last=null;
 function frame(ts){if(last===null)last=ts;const dt=Math.min(0.05,(ts-last)/1000);last=ts;t+=dt;
-  if(viewT){yaw+=(viewT[0]-yaw)*0.15;pitch+=(viewT[1]-pitch)*0.15;if(Math.abs(viewT[0]-yaw)+Math.abs(viewT[1]-pitch)<1e-3){yaw=viewT[0];pitch=viewT[1];viewT=null;}}
-  if(mode==='T'){ // le fil tendu se courbe sous la force (ressort amorti, déformation exagérée)
-    const F=Math.abs(F2(-d0()/2,d0()/2)),target=(same?1:-1)*0.26*d0()*(1-Math.exp(-F/0.012));sagV+=((target-sag)*40-sagV*7)*dt;sag+=sagV*dt;if(same)sag=Math.min(sag,0.47*d0());}
+  if(viewT){yaw+=(viewT[0]-yaw)*0.12;pitch+=(viewT[1]-pitch)*0.12;zoom+=(viewT[2]-zoom)*0.12;if(Math.abs(viewT[0]-yaw)+Math.abs(viewT[1]-pitch)+Math.abs(viewT[2]-zoom)<1e-3)viewT=null;}
+  if(mode==='T'){const F=Math.abs(F2(-d0()/2,d0()/2)),target=on?(same?1:-1)*0.26*d0()*(1-Math.exp(-F/0.012)):0,old=sag;sagV+=((target-sag)*40-sagV*6)*dt;sag+=sagV*dt;if(same)sag=Math.min(sag,0.47*d0());if(Math.abs(sag-old)<2e-6)sag=old;}
   else if(free&&!contact){const h=dt/SLOW/4;for(let k=0;k<4;k++){const f=F2(x1,x2);v2+=f/LAM*h;v1-=f/LAM*h;x1+=v1*h;x2+=v2*h;
       if(x2-x1<0.004){const m=(x1+x2)/2;x1=m-0.002;x2=m+0.002;v1=v2=0;contact=true;free=false;$('go').textContent='▶ Lâcher les fils';break;}
-      if(x2>S()*0.46||x1<-S()*0.46){v1=v2=0;contact=true;free=false;$('go').textContent='▶ Lâcher les fils';break;}}
+      if(x2>S()*0.44||x1<-S()*0.44){v1=v2=0;contact=true;free=false;$('go').textContent='▶ Lâcher les fils';break;}}
     upd();}
-  draw();requestAnimationFrame(frame);}
-window.addEventListener('resize',()=>{dirty=true;});
-window.__fils={set:o=>{if(o.same!=null)(o.same?$('dS'):$('dO')).click();if(o.mode)(o.mode==='L'?$('mL'):$('mT')).click();if(o.go)$('go').click();if(o.view)$({'3D':'v3',T:'vT',F:'vF'}[o.view]).click();if(o.I1){I1=o.I1;}if(o.I2){I2=o.I2;}upd();},
-  get:()=>({d:mode==='T'?d0():x2-x1,F:F2(mode==='T'?-d0()/2:x1,mode==='T'?d0()/2:x2),sag,x1,x2,contact,B:(x,y)=>Bvec(x,y,x1,x2)})};
-$('go').style.display='none';reset();requestAnimationFrame(frame);
+  stepGrains(dt);draw();requestAnimationFrame(frame);}
+window.__fils={set:o=>{if(o.same!=null)(o.same?$('dS'):$('dO')).click();if(o.mode)(o.mode==='L'?$('mL'):$('mT')).click();if(o.go)$('go').click();if(o.view)$({'3D':'v3',C:'vC',T:'vT',F:'vF'}[o.view]).click();upd();},
+  get:()=>({d:mode==='T'?d0():x2-x1,F:F2(mode==='T'?-d0()/2:x1,mode==='T'?d0()/2:x2),sag,x1,x2,contact,nLines:(traceLevel(0)||[]).length,B:(x,y)=>Bvec(x,y,x1,x2)})};
+$('go').style.display='none';buildGrains();reset();
+for(let i=0;i<NG;i++)grains.a[i]=rnd(i+2e4)*Math.PI;   // la limaille part en désordre et s'aligne quand le courant passe
+requestAnimationFrame(frame);
 })();
 </script>
 </section></main>
